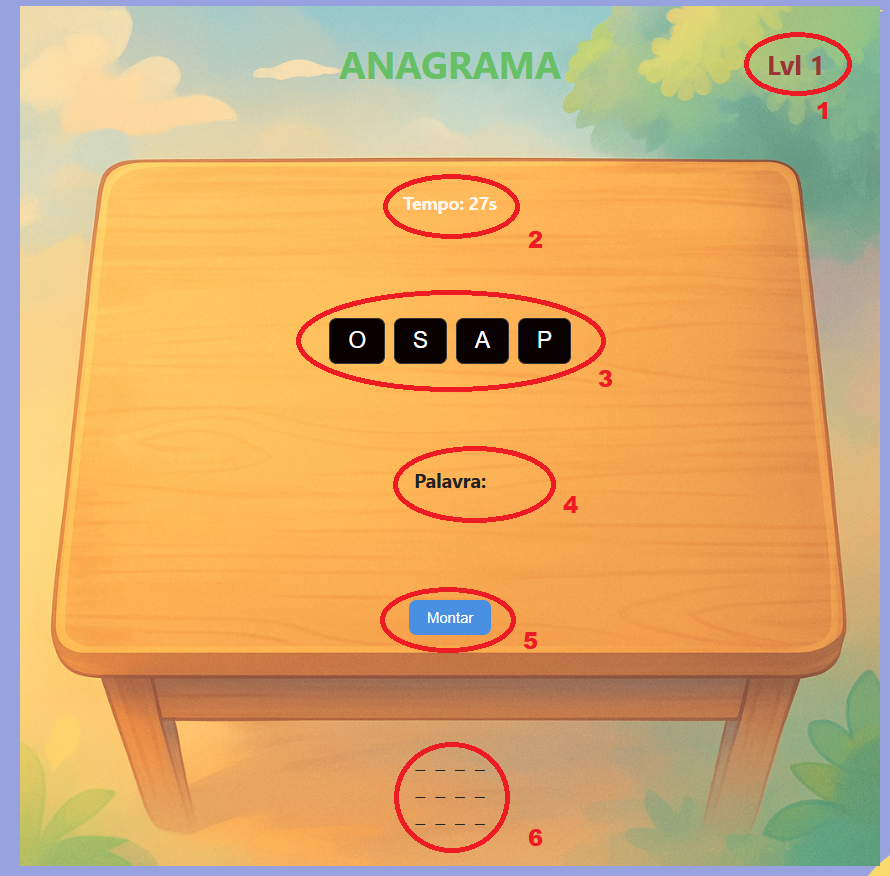
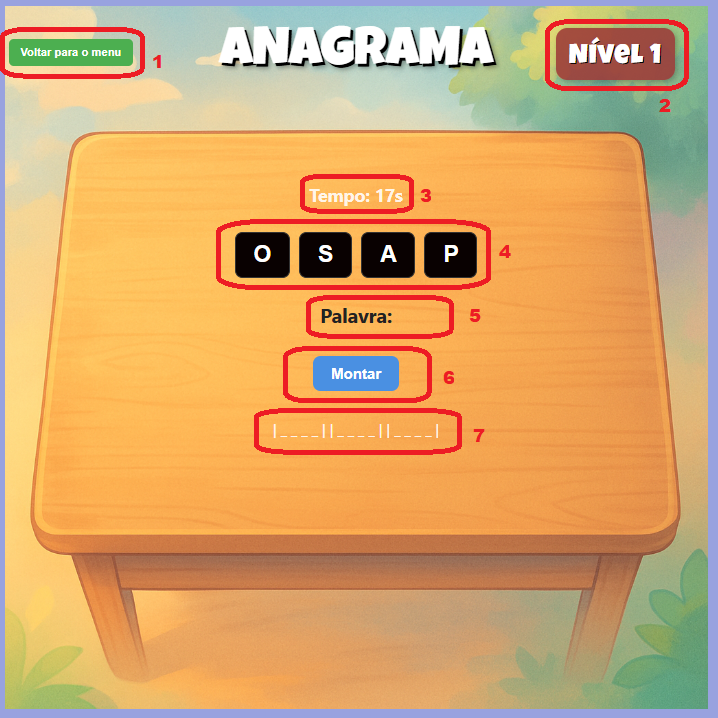
Add atualização - documentação Anagrama

diff --git a/src/jogos/Anagrama/documentation/DocumentacaoProjeto.md b/src/jogos/Anagrama/documentation/DocumentacaoProjeto.md
@@ -40,12 +40,13 @@
 
 <img src="imgs\imginicial.PNG" width="500" height="400">
 
-- 2.1 -Nível do jogo - Indica em que nivel o jogador se encontra;
-- 2.2 -Cronometro - O jogador possui tempo limitado para encontrar as palavras necessárias para completar o nível;
-- 2.3 -Letras - As letras necessarias para formar as palavras escondidas, ao selecionar uma letra ela será indicada no campo "Palavra";
-- 2.4 -Campo palavra - Neste campo as letra selecionadas pelo jogador irão aparecer na sequencia que foram selecionadas, sendo limitada pela quantidade de letras da maior palavra escondida;
-- 2.5 -Botão montar - Após inserir as letras necessarias para formar uma palavra, o jogador irá apertar o botão para verificar se a palavra montada é uma das palavras escondidas;
-- 2.6 -Campo de palavras - As palavras escondidas encontradas ficarão armazenadas neste campo;
+- 2.1 -Retorno ao menu de jogos - Botão para retornar para o menu de jogos na pagina inicial;
+- 2.2 -Nível do jogo - Indica em que nivel o jogador se encontra;
+- 2.3 -Cronometro - O jogador possui tempo limitado para encontrar as palavras necessárias para completar o nível;
+- 2.4 -Letras - As letras necessarias para formar as palavras escondidas, ao selecionar uma letra ela será indicada no campo "Palavra";
+- 2.5 -Campo palavra - Neste campo as letra selecionadas pelo jogador irão aparecer na sequencia que foram selecionadas, sendo limitada pela quantidade de letras da maior palavra escondida;
+- 2.6 -Botão montar - Após inserir as letras necessarias para formar uma palavra, o jogador irá apertar o botão para verificar se a palavra montada é uma das palavras escondidas;
+- 2.7 -Campo de palavras - As palavras escondidas encontradas ficarão armazenadas neste campo;
 
 3. Alguns eventos do jogo:
 
@@ -62,6 +63,8 @@
 |------------------------|-----------------------|------------  |
 | Reunião                |  15/05/2025           | finalizado   |
 | Design da capa         |  15/05/2025           | finalizado   |
-| Apresentação           |  15/05/2025           | finalizado   |
-| Estilização            |  20/05/2025           | em andamento |
-| Apresentação II        |  21/05/2025           | em andamento |
+| Apresentação I         |  15/05/2025           | finalizado   |
+| Estilização I          |  20/05/2025           | Finalizado   |
+| Apresentação II        |  21/05/2025           | Finalizado   |
+| Apresentação III       |  29/05/2025           | em andamento |
+| Estilização II         |  29/05/2025           | em andamento |

diff --git a/src/jogos/Anagrama/documentation/Ata.md b/src/jogos/Anagrama/documentation/Ata.md
@@ -21,3 +21,23 @@
 
 # Dia 21/05/2025 
 <p>Entrega de: documentação do projeto, Ata</p>
+
+# Dia 22/05/2025
+<p>Segunda apresentação do jogo e suas funcionalidades, bem como atualizações no planejamento da equipe.</p> 
+<p>Após todas as aprenstações os seguintes topicos foram levantados: </p>
+1. Utilização de efeitos sonoros gerais;
+2. Correções para evitar desestabilização na aplicação;
+3. Mudanças estéticas no jogo;
+
+<p>As seguintes mudanças foram feitas pela equipe de programação:</p>
+1. Nivel dinâmico;
+2. Distribuição da apresentação das palavras encontradas;
+3. Implementação do nivel dinâmico ao arquivo .json;
+
+# Dia 28/05/2025
+
+<p>As seguintes mudanças foram feitas:</p>
+1. Implementação do botão de retorno ao menu principal;
+2. Mudança no estilo do titulo e nivel;
+
+<p>Descoberta de um erro ao subir de nivel: O tempo não reinicia.</p>
